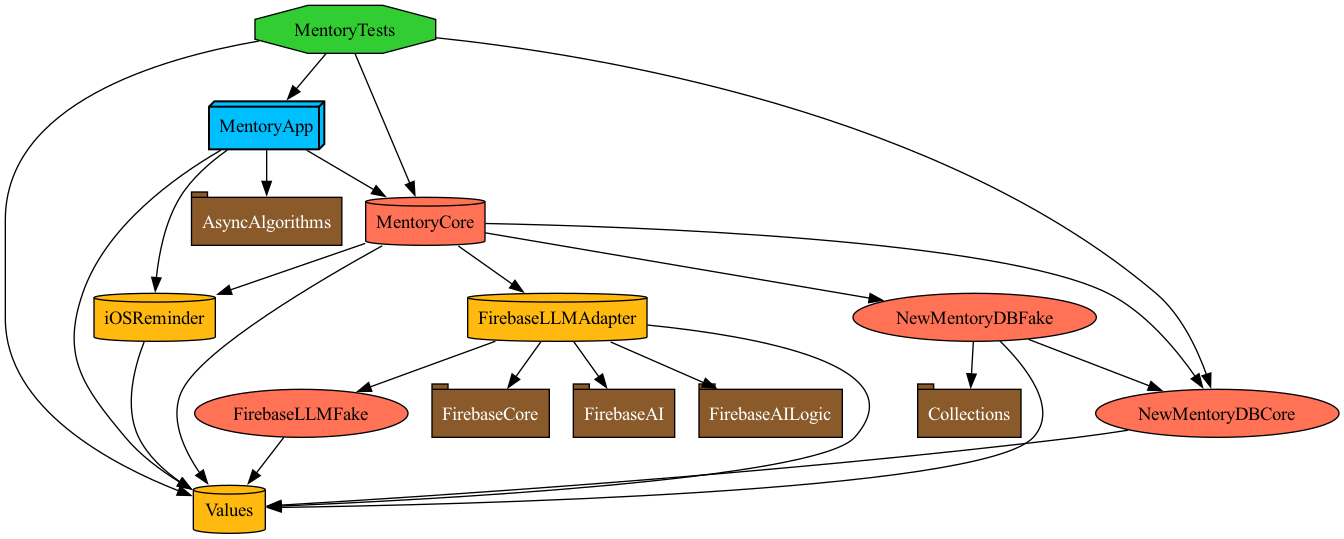
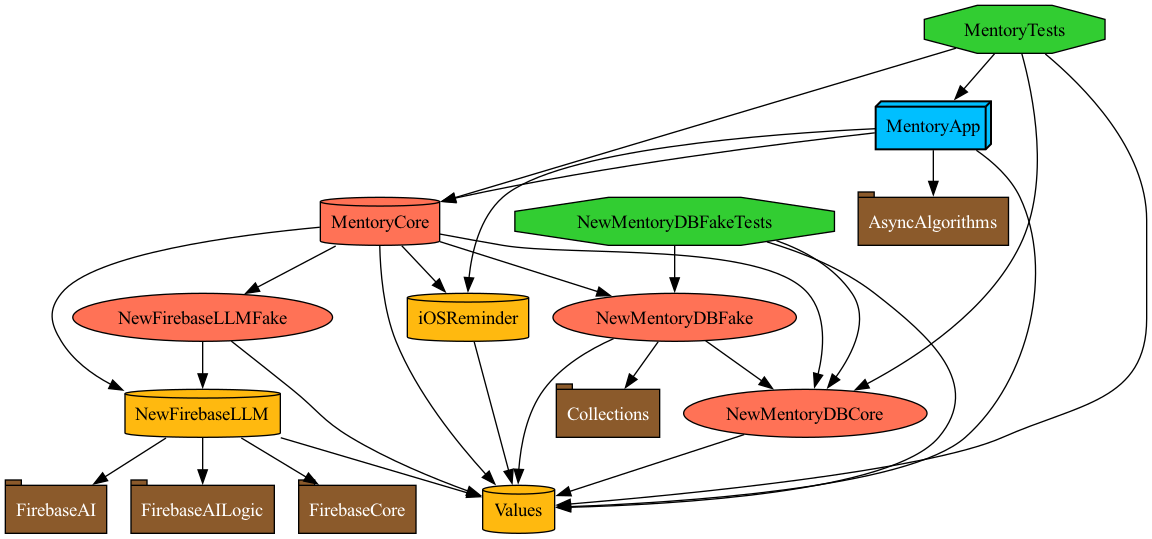
refactor: use fake db in test mode

diff --git a/MentoryApp/MentoryCore/Sources/Mentory.swift b/MentoryApp/MentoryCore/Sources/Mentory.swift
@@ -5,12 +5,14 @@
 //  Created by 김민우 on 11/13/25.
 //
 import Foundation
-import NewMentoryDBCore
 import OSLog
 import Values
-import iOSReminder
 import Combine
-import FirebaseLLMAdapter
+import iOSReminder
+import NewMentoryDBCore
+import NewMentoryDBFake
+import NewFirebaseLLM
+import NewFirebaseLLMFake
 
 
 // MARK: object
@@ -25,20 +27,20 @@ public final class Mentory: Sendable, ObservableObject {
     public init(_ mode: SystemMode = .test) {
         switch mode {
         case .real:
+            do {
+                try NewMentoryDBConfig.default.createOnce()
+            } catch {
+                logger.fault("\(error)")
+            }
+            
             self.firebaseLLM = NewFirebaseLLM()
             self.reminderCenter = RemindManager()
+            self.newMentoryDB = NewMentoryDB(id: NewMentoryDBConfig.default.rootID)
         case .test:
             self.firebaseLLM = NewFirebaseLLMFake()
             self.reminderCenter = RemindManagerFake()
+            self.newMentoryDB = NewMentoryDBFake()
         }
-
-        do {
-            try NewMentoryDBConfig.default.createOnce()
-        } catch {
-            logger.error("\(error)")
-        }
-
-        self.newMentoryDB = NewMentoryDB(id: NewMentoryDBConfig.default.rootID)
     }
 
     // MARK: state
@@ -60,6 +62,7 @@ public final class Mentory: Sendable, ObservableObject {
     @Published public var settingBoard: SettingBoard? = nil
     @Published public var statBoard: StatBoard? = nil
 
+    
     // MARK: action
     public func setUp() {
         // capture
@@ -111,6 +114,7 @@ public final class Mentory: Sendable, ObservableObject {
         await newMentoryDB.setName(userName)
     }
 
+    
     // MARK: value
     public struct URL: Sendable, Hashable {
         // MARK: core

diff --git a/MentoryDB/Sources/NewMentoryDBCore/NewMentoryDB/NewMentoryDB.swift b/MentoryDB/Sources/NewMentoryDBCore/NewMentoryDB/NewMentoryDB.swift
@@ -212,43 +212,7 @@ public actor NewMentoryDB: Sendable, NewMentoryDBInterface {
             logger.error("insertTicket 실패: \(error.localizedDescription, privacy: .public)")
         }
     }
-//    public func insertSuggestions(ticketId: UUID, suggestions: [SuggestionData]) async {
-//        guard suggestions.isEmpty == false else {
-//            return
-//        }
-//
-//        do {
-//            let context = try NewMentoryDBConfig.default.makeContext()
-//            let db = try NewMentoryDBConfig.default.fetchDB(in: context)
-//
-//            guard let record = db.records.first(where: { $0.ticketId == ticketId }) else {
-//                throw NewMentoryDBError.recordNotFound
-//            }
-//
-//            var existingIDs = Set(record.suggestions.map { $0.id })
-//            var insertedCount = 0
-//
-//            for suggestion in suggestions {
-//                guard existingIDs.insert(suggestion.objectID).inserted else {
-//                    continue
-//                }
-//
-//                record.suggestions.append(NewDailySuggestionModel(data: suggestion))
-//                insertedCount += 1
-//            }
-//
-//            if insertedCount > 0 {
-//                try context.save()
-//            }
-//
-//            logger.debug(
-//                "insertSuggestions 완료 (inserted: \(insertedCount), skipped: \(suggestions.count - insertedCount))"
-//            )
-//        } catch {
-//            logger.error("insertSuggestions 실패: \(error.localizedDescription, privacy: .public)")
-//        }
-//    }
-
+    
     
     // MARK: action
     public func createDailyRecords() async {

diff --git a/MentoryDB/Sources/NewMentoryDBFake/NewMentoryDBFake.swift b/MentoryDB/Sources/NewMentoryDBFake/NewMentoryDBFake.swift
@@ -8,6 +8,7 @@ import NewMentoryDBCore
 import Values
 import Foundation
 import OSLog
+import Collections
 
 
 // MARK: fake
@@ -15,6 +16,10 @@ import OSLog
 public final class NewMentoryDBFake: NewMentoryDBInterface {
     // MARK: core
     private let logger = Logger()
+    
+    public init() {
+        
+    }
 
     
     // MARK: state
@@ -65,7 +70,7 @@ public final class NewMentoryDBFake: NewMentoryDBInterface {
         }
     }
 
-    internal var recordCreationQueue: [RecordSnapshot] = []
+    internal var recordCreationQueue: Deque<RecordSnapshot> = []
     public func insertTicket(_ recordData: RecordSnapshot) {
         self.recordCreationQueue.append(recordData)
     }
@@ -74,6 +79,19 @@ public final class NewMentoryDBFake: NewMentoryDBInterface {
 
     // MARK: action
     public func createDailyRecords() async {
-        fatalError()
+        // recordCreationQueue에서 RecordSnapshot을 하나 꺼내옴
+        // 이를 통해 NewDailyRecordFake름 만듬
+        while let snapshot = recordCreationQueue.popFirst() {
+            let newRecord = NewDailyRecordFake(
+                owner: self,
+                recordID: self.id,
+                recordDate: snapshot.recordDate,
+                createAt: snapshot.createdAt,
+                analyzedContent: snapshot.analyzedResult,
+                emotion: snapshot.emotion
+            )
+            
+            self._records.append(newRecord)
+        }
     }
 }

diff --git a/MentoryDB/Sources/NewMentoryDBFake/NewDailyRecordFake.swift b/MentoryDB/Sources/NewMentoryDBFake/NewDailyRecordFake.swift
@@ -15,10 +15,9 @@ public final class NewDailyRecordFake: NewDailyRecordInterface {
 
 
     // MARK: core
-    internal init(id: UUID,
+    internal init(id: UUID = UUID(),
                   owner: NewMentoryDBFake,
                   recordID: UUID,
-                  ticketID: UUID,
                   recordDate: MentoryDate,
                   createAt: MentoryDate,
                   analyzedContent: String,
@@ -26,7 +25,6 @@ public final class NewDailyRecordFake: NewDailyRecordInterface {
         self.id = id
         self.owner = owner
         self.recordID = recordID
-        self.ticketID = ticketID
         self.recordDate = recordDate
         self.createAt = createAt
         self.analyzedContent = analyzedContent
@@ -38,8 +36,6 @@ public final class NewDailyRecordFake: NewDailyRecordInterface {
     public nonisolated let id: UUID
     public var recordID: UUID
     internal weak var owner: NewMentoryDBFake?
-
-    public nonisolated let ticketID: UUID
 
     public nonisolated let recordDate: MentoryDate
     public nonisolated let createAt: MentoryDate

diff --git a/MentoryApp/MentoryTests/MentoryTests.swift b/MentoryApp/MentoryTests/MentoryTests.swift
@@ -94,30 +94,6 @@ struct MentoryTests {
         }
     }
     
-    struct SaveUserName {
-        let mentory: Mentory
-        let mentoryDB: any NewMentoryDBInterface
-        init() async throws {
-            self.mentory = await Mentory()
-            self.mentoryDB = mentory.newMentoryDB
-        }
-        
-        @Test func setUserName() async throws {
-            // given
-            await #expect(mentoryDB.name == nil)
-            
-            await MainActor.run {
-                mentory.userName = "TEST_USER_NAME"
-            }
-            
-            // when
-            await mentory.saveUserName()
-            
-            // then
-            await #expect(mentoryDB.name == "TEST_USER_NAME")
-        }
-    }
-    
     struct LoadUserName {
         let mentory: Mentory
         let mentoryDB: any NewMentoryDBInterface

diff --git a/MentoryDB/Sources/NewMentoryDBCore/NewDailyRecord/NewDailyRecordInterface.swift b/MentoryDB/Sources/NewMentoryDBCore/NewDailyRecord/NewDailyRecordInterface.swift
@@ -18,7 +18,6 @@ public protocol NewDailyRecordInterface: Sendable {
 
     // MARK: state
     var id: UUID { get }
-    var ticketID: UUID { get async }
     var recordID: UUID { get async }
 
     var recordDate: MentoryDate { get async }
